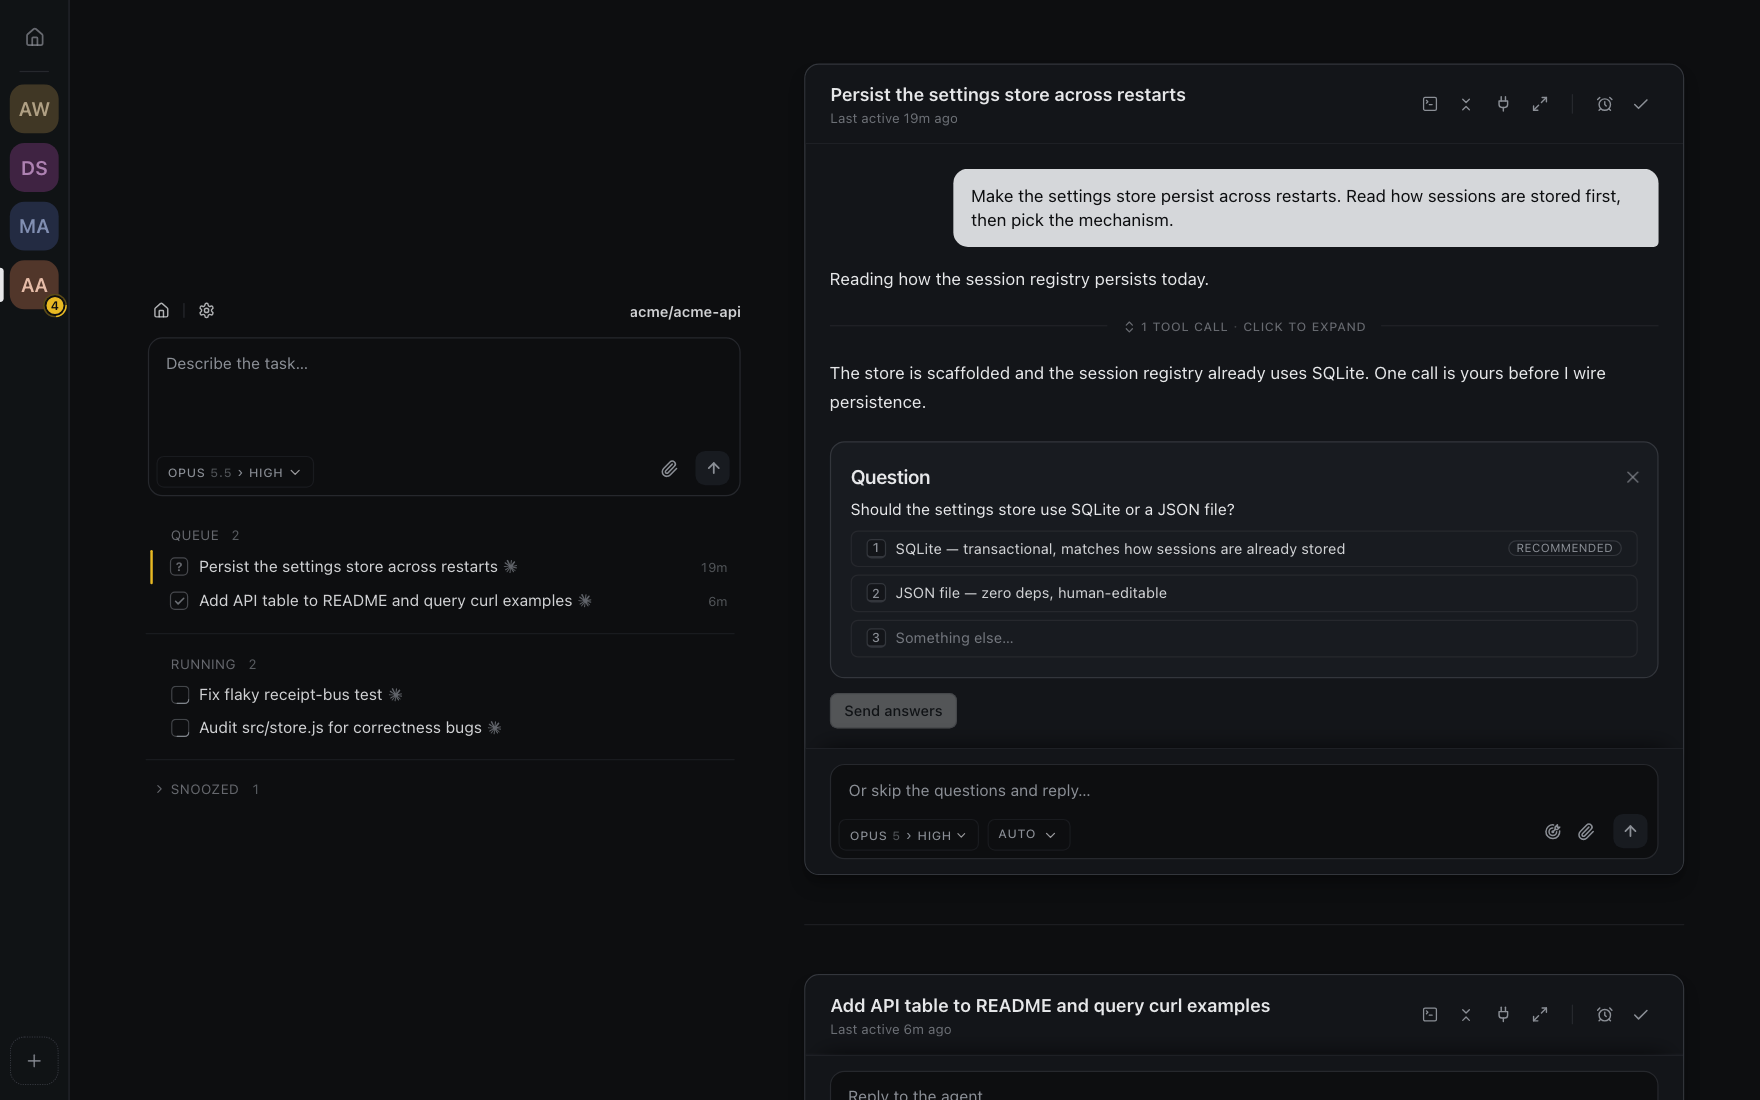
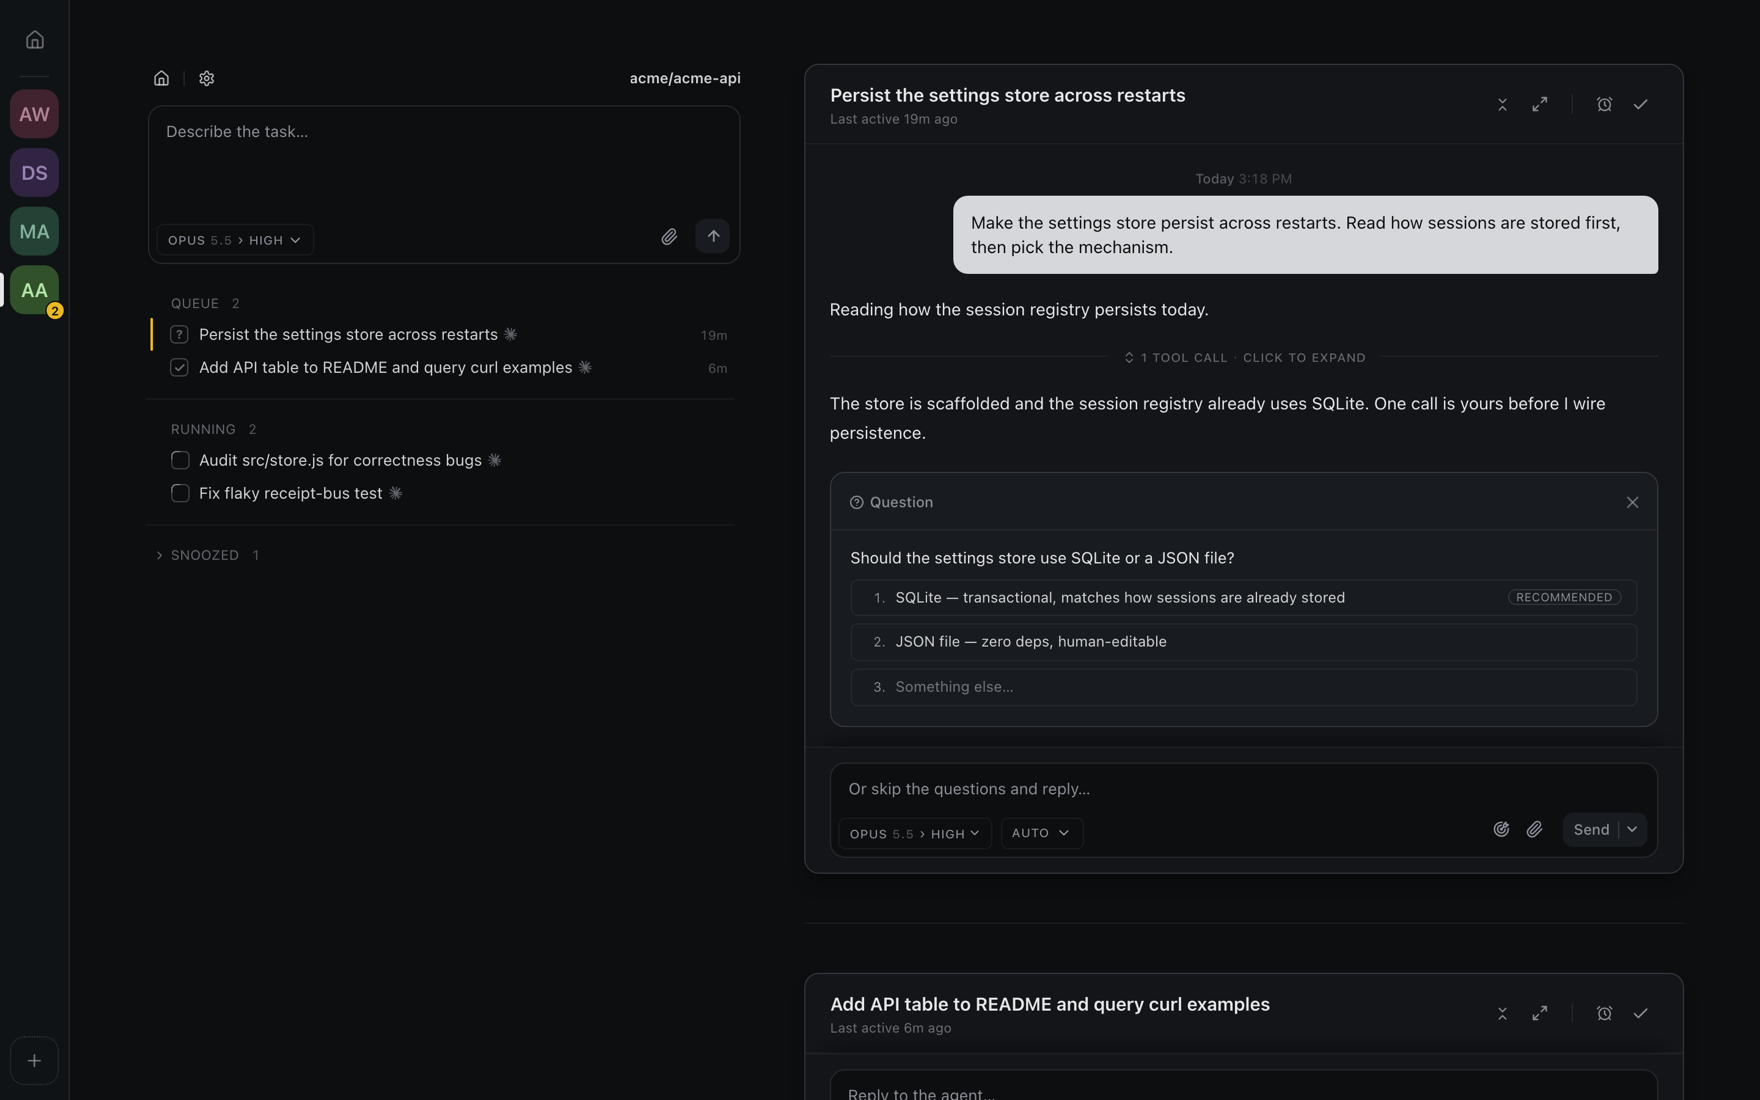
docs(readme): re-shoot the question cards with plain option numbers
Board, question and multi-select screenshots re-captured from a seeded sandbox stack (1440x900, dark, sans, 2x; synthetic acme/acme-api, questions through the real ask RPC, the multi-select's first two options ticked by clicking) so the options show plain 1. / 2. numbers rather than keycaps. The question cards now carry their header bar, so question.png is 730 tall and question-multi.png 804; site/index.html gets new md5 cache busters and question.png's height.

diff --git a/site/index.html b/site/index.html
@@ -56,7 +56,7 @@
         </div>
 
         <figure class="shot">
-          <img src="/img/board.png?v=4529039b" width="1760" height="1100" alt="The Frizz board: the project rail down the left, the composer and the queue of threads beside it, and on the right a card where an agent asks a question with numbered options, with its snooze clock and done check in the card's header." />
+          <img src="/img/board.png?v=9abcb50b" width="1760" height="1100" alt="The Frizz board: the project rail down the left, the composer and the queue of threads beside it, and on the right a card where an agent asks a question with numbered options, with its snooze clock and done check in the card's header." />
         </figure>
 
         <h2>Frizz is for you if</h2>
@@ -74,7 +74,7 @@
             <p>A worker runs until it reaches something only you can settle, then asks a question with numbered options. A number key picks an answer and Enter sends it. Nothing shows up just to be dismissed.</p>
           </div>
           <figure class="shot">
-            <img src="/img/question.png?v=80b84829" width="1432" height="700" loading="lazy" alt="A question card: 'Should the settings store use SQLite or a JSON file?' with two options numbered 1 and 2, the first tagged RECOMMENDED, and a row numbered 3 for typing something else, above the prompt box and its Send button." />
+            <img src="/img/question.png?v=9f20e269" width="1432" height="730" loading="lazy" alt="A question card: 'Should the settings store use SQLite or a JSON file?' with two options numbered 1 and 2, the first tagged RECOMMENDED, and a row numbered 3 for typing something else, above the prompt box and its Send button." />
           </figure>
         </div>
         <div class="row">
